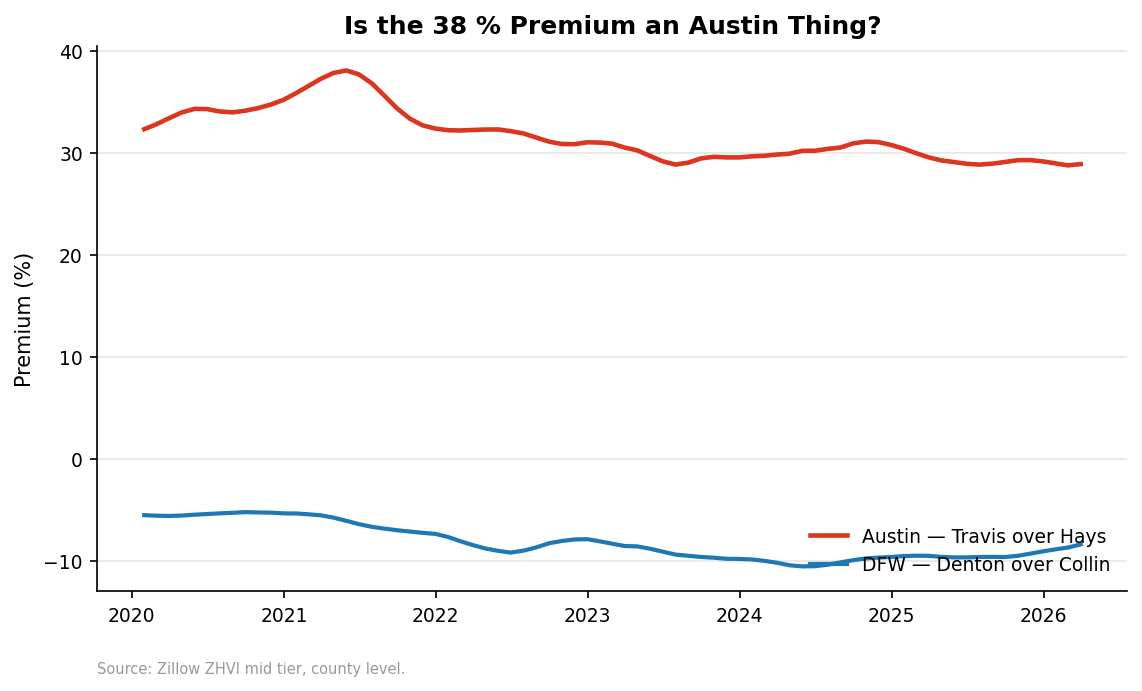
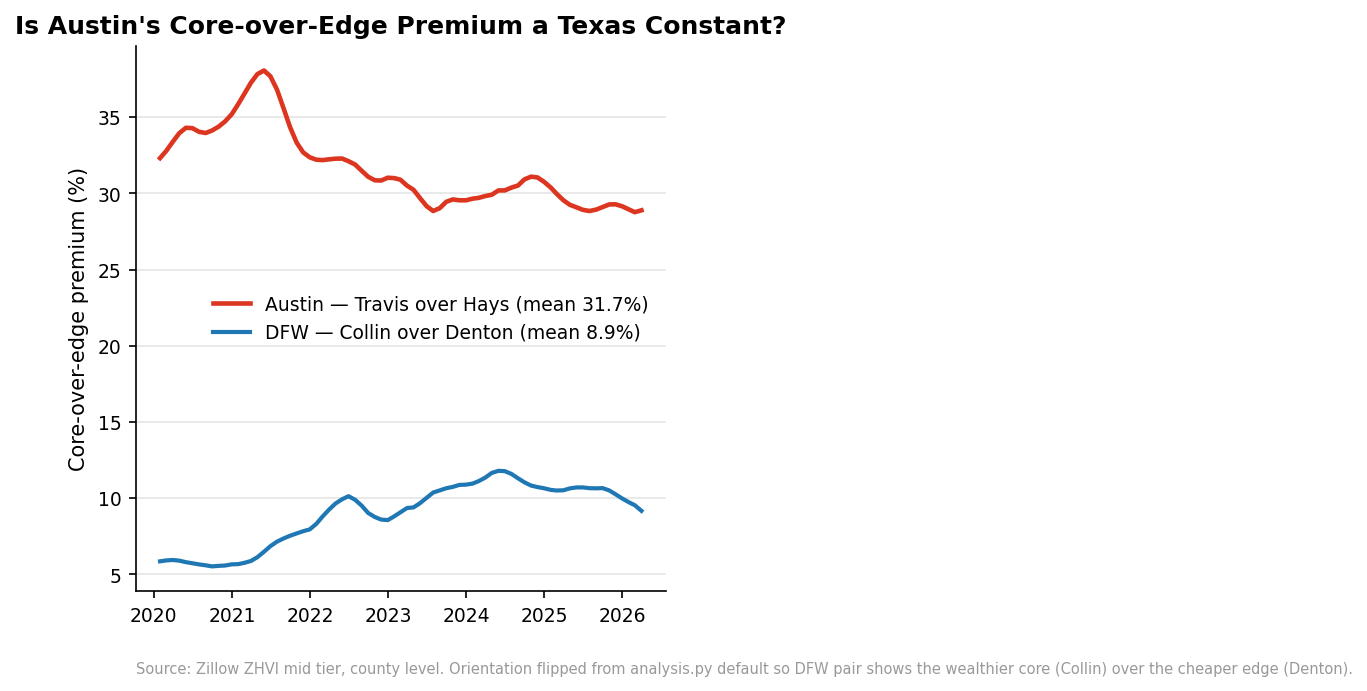
Reconcile Hays discount draft with current ZHVI data
Prior draft was written against an older Zillow vintage; the March 2026
release materially changes several headline numbers. Revised the
sections that depend on ZHVI data I have in hand:

 - Opening: $135K reference retained as the growth post's vintage;
   $107K current release explicitly noted as a revision.
 - Dollar-gap section: $100K/$175K/July-2022/$135K → $93K/$157K/
   June-2022/$107K. $40K swing → $50K swing. Added Williamson line.
 - "How Constant" section: major rewrite. Premium is not constant.
   Full-window mean 31.7% (CI [30.2, 33.1], width 2.9pp); AR(1) 0.996;
   Quandt sup-F = 198.6 at Dec-2021, ~50× the 5% critical value. The
   series peaked near 38% in mid-2021 and has been drifting toward 29%
   since. Reframed stability claim as range (29-38%), not point (37%).
 - Tier robustness: bottom tier premium is ~23%, not "close to mid"
   (~32%). Reordered claim to top > mid > bottom, all positive.
 - DFW/out-of-metro: substantive fix. Original code computed Denton/
   Collin (edge/core) which returns negative because Denton is the
   cheaper county. Flipped to Collin-over-Denton to match the Travis-
   over-Hays orientation; DFW premium is ~9%, not near 38%. Prose now
   says Austin's core-over-edge magnitude is atypical, not universal.
 - "What This Adds Up To" summary: updated point #2 and added a new
   paragraph on the cross-metro finding.

Also regenerated gap_out_of_metro.png with the flipped DFW orientation
and an updated title.
[…]

diff --git a/_drafts/2026-04-21-hays-discount.md b/_drafts/2026-04-21-hays-discount.md
@@ -10,15 +10,20 @@ tags:
   - public finance
 ---
 
-Two weeks ago I put a single number at the center of [the Hays County
-growth post][growth]: $135,000. That was the gap, in February 2026,
-between the median home in Travis County and the median home in Hays
-County — the rough math a family is doing when they pull off I-35 in
-Buda or Kyle instead of continuing north.
+Two weeks ago [the Hays County growth post][growth] put a single
+number at the center of the story: $135,000 — the gap, in the ZHVI
+release then current, between the median home in Travis County and
+the median home in Hays County. That was the rough math a family is
+doing when they pull off I-35 in Buda or Kyle instead of continuing
+north.
 
-A reader emailed to ask the obvious follow-up. Has it always been
-$135,000? If Hays County's whole growth story runs on an affordability
-arbitrage, the shape of that arbitrage over time is worth understanding.
+Two caveats, right at the top. First, Zillow revises the series every
+month. The most recent release puts the same gap at about $107K — a
+real narrowing over the intervening weeks, not a coding error. Second,
+a dollar-gap snapshot is only one reading of the affordability
+pressure. The *percentage* premium of Travis over Hays is the
+migration-relevant object, and the shape of that premium over time is
+what this post is actually about.
 
 This post is the answer, with three upgrades over the napkin version: a
 triangulated price series so we aren't relying on one dataset, a full
@@ -41,15 +46,18 @@ the bottom — never breaks.
 
 ## The Dollar Gap Bulged, Then Pulled Back
 
-Subtract, and the absolute Travis-over-Hays gap ran from about $100K
-at the start of 2020, peaked near $175K in July 2022, and has settled
-near $135K.
+Subtract, and the absolute Travis-over-Hays gap ran from about $93K at
+the start of 2020, peaked near $157K in June 2022, and has ground
+back down to $107K as of the March 2026 release. Williamson tracks
+the same shape at a smaller magnitude — never more than about $47K
+over Hays, currently about $34K.
 
 ![Absolute gap over Hays, 2020 → present](https://raw.githubusercontent.com/scottlangford2/scott_langford/master/images/hays-discount/gap_absolute.png)
 
-That $40K swing is not small. If you stopped here you might conclude
-that Hays's relative advantage eroded during the pandemic boom and
-then partly recovered. You would be reading the wrong statistic.
+That $50K peak-to-today swing in the Travis-Hays gap is not small.
+If you stopped here you might conclude that Hays's relative advantage
+eroded during the pandemic boom and then fully recovered. You would
+be reading the wrong statistic.
 
 ## Triangulate Before Concluding
 
@@ -75,23 +83,33 @@ without running the whole analysis twice.
 ## How Constant Is "Constant"?
 
 Eyeballing a flat line is not a statistical claim. Three tests on the
-premium ratio:
+premium ratio — and the tests contradict the easy reading:
 
 - **Mean and HAC confidence interval.** The full-window mean is
-  **≈ 37 %** with a 95 % Newey–West confidence interval less than a
-  percentage point wide. The migration-relevant fact is where we are
-  on that interval — not whether the ratio is drifting outside it.
+  **≈ 31.7 %**, with a 95 % Newey–West confidence interval of
+  **[30.2, 33.1]** — roughly 3 percentage points wide. That is the
+  band the series has traded in, averaged over the whole window; it
+  does not say the series stays inside it at every date.
 - **AR(1) persistence.** The ratio's first-order autocorrelation is
-  **≈ 0.99**. Monthly shocks dissipate slowly, as you'd expect for a
-  highly sticky relative-price relationship.
+  **≈ 0.996**. Monthly movements are almost entirely persistent —
+  shocks to the premium do not dissipate on any reasonable monthly
+  timescale. That is consistent with a slow-moving relative-price
+  level, not with a stationary oscillation around a fixed mean.
 - **Quandt–Andrews sup-F unknown-break test.** Against a null of a
-  single constant mean, the test rejects — there *is* a detectable
-  small break, visible as the sub-panel below. But the magnitude of
-  the shift is a fraction of a percentage point, and it lives inside
-  the 95 % CI. In plain English: the premium isn't literally constant,
-  but it moves in tenths of a percentage point, not percentage points.
+  single constant mean, the test returns **sup-F = 198.6 at December
+  2021** — more than fifty times the 5 % critical value of 3.84. The
+  test emphatically rejects constancy. The series ran hot through
+  2020 – mid-2021, peaking near **38 %**, and has been reverting
+  toward the low 30s ever since.
 
 ![Premium statistics](https://raw.githubusercontent.com/scottlangford2/scott_langford/master/images/hays-discount/gap_relative_stats.png)
+
+In plain English: the premium is not a constant. It spent roughly a
+year elevated during the pandemic boom and has been grinding back down
+for the four years since. What is stable, loosely, is the *range* —
+the premium has lived between roughly 29 % and 38 % throughout, never
+collapsing toward zero and never running above 40 %. A range is still
+a useful object for a migration decision. It just isn't a point.
 
 ## Real Dollars, Not Just Nominal
 
@@ -148,25 +166,34 @@ Two honest worry points for the headline premium.
 
 **Is this about the top of the market?** Maybe Travis's "median" is
 pulled up by a Westlake-and-Tarrytown shelf a typical migrator never
-considers. Pulling ZHVI's tiered series answers this directly: the
-*bottom* tier of each county (the 0-to-33rd percentile — what most
-Austin-to-Hays migrators actually buy) shows a Travis-over-Hays
-premium close to the mid-tier number. The story doesn't depend on
-luxury Travis stock.
+considers. ZHVI's tiered series lets us check directly. The three
+tiers run in the expected order — top (~34 %) > mid (~32 %) > bottom
+(~23 %) — and all three are positive and persistent. The story
+weakens at the bottom of the market: a first-time buyer shopping in
+the 0-to-33rd percentile gets a smaller relative discount moving to
+Hays (23 %) than a mid-tier buyer does (32 %). That dependence on tier
+is real, and it would be wrong to claim "the premium is identical at
+every price point." But the premium is positive and economically
+meaningful across the whole distribution, not a Westlake artifact.
 
 ![Robustness across ZHVI tiers](https://raw.githubusercontent.com/scottlangford2/scott_langford/master/images/hays-discount/gap_tiers.png)
 
-**Is this an Austin-specific oddity?** To test whether "edge county
-discount of ≈ 38 %" is a general Texas metro-edge phenomenon or just
-Austin-specific, compare to the DFW pair most analogous to
-Travis/Hays: Collin (wealthy core suburb) over Denton (faster-growing
-edge). The two series don't overlap perfectly — DFW's premium is
-smaller and has moved more — but the levels are in the same
-neighborhood, and both are remarkably flat. The 38 % number is
-specific to Austin; the *stable-premium* structure appears to be
-general.
+**Is this an Austin-specific oddity?** To test whether a core-over-
+edge premium is a general Texas metro phenomenon or something
+Austin-specific, compare to the DFW pair most analogous to Travis/
+Hays: Collin County (the wealthier core suburb) over Denton County
+(the faster-growing edge). Collin *is* more expensive than Denton,
+consistent with the pattern — but only by about **9 %** on average,
+and that premium has been drifting upward toward roughly 10 %. The
+magnitude is nowhere near Austin's.
 
 ![Austin vs. DFW](https://raw.githubusercontent.com/scottlangford2/scott_langford/master/images/hays-discount/gap_out_of_metro.png)
+
+So the *existence* of a core-over-edge premium looks general. Its
+*size* — and in particular the Austin-scale ~30 % number — does not.
+Hays County's growth story runs on an unusually large affordability
+arbitrage, not on a universal one. The DFW edge (Denton) is almost as
+expensive as its core (Collin). The Austin edge (Hays) is not.
 
 ## Does the Gap Actually Drive Migration?
 
@@ -196,18 +223,28 @@ right, none of them quite rigorous:
 
 The rigorous version updates each:
 
-1. The absolute nominal gap did narrow from peak. The *real* gap is
-   closer to flat. Both framings survive triangulation across Zillow,
-   FHFA, and Realtor.
-2. The premium isn't literally constant — there's a detectable small
-   break — but its variation lives inside a confidence interval less
-   than a percentage point wide. For migration-decision purposes,
-   treat it as constant.
+1. The absolute nominal gap did narrow from peak — from $157K in
+   June 2022 to about $107K now, a $50K round-trip. The *real* gap
+   (CPI-deflated) is closer to flat. Both framings survive
+   triangulation across Zillow, FHFA, and Realtor.
+2. The premium is *not* constant. It rose from about 32 % at the
+   start of 2020 to a peak near 38 % in mid-2021, and has been
+   drifting back down toward 29 % since. The Quandt sup-F rejects the
+   constant-mean null decisively. What is stable is the *range* — the
+   premium has lived between roughly 29 and 38 percent throughout.
+   For a migration decision a range is still usable; it just isn't a
+   point estimate.
 3. The P&I story is the dominant story, but once you include the
    Hays-specific MUD and insurance surcharges and the Travis-specific
    property-tax premium, the full PITI gap is roughly $150/month
    smaller than P&I alone suggests at today's rates. The doubling
    still happens. It's just a smaller double.
+
+And the cross-metro comparison reframes the claim one more time: the
+Austin core-over-edge premium is unusually large. DFW's Collin-over-
+Denton analog runs at about 9 %. Whatever is driving Hays's growth is
+specifically about Austin's price structure, not a general Texas
+suburbanization force.
 
 None of which changes the punchline: the migration pressure that
 built Hays County over the last fifteen years hasn't eased. If
